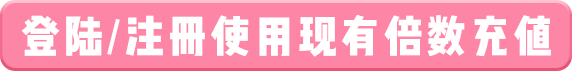
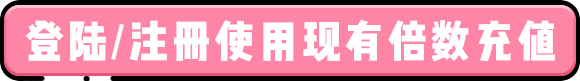
fff

diff --git a/ZL.Web/Content/index.css b/ZL.Web/Content/index.css
@@ -770,8 +770,8 @@ body {
     position: relative;
     display: none;
     margin: 69px auto 0 auto;
-    width: 572px;
-    height: 71px;
+    width: 580px;
+    height: 81px;
     background: url(../../../img/page_l_xybs.png) top center;
     background-size: 100% 100%;
 }

diff --git a/ZL.Web/Controllers/HomeController.cs b/ZL.Web/Controllers/HomeController.cs
@@ -50,7 +50,7 @@ namespace ZL.Web.Controllers
             }
             ////读取分享者Openid
              if ((!string.IsNullOrEmpty(openid) && sign == GetMD5(openid + randomKey)) || !string.IsNullOrEmpty(Session["openid"] + ""))
-            //if (!string.IsNullOrEmpty(openid)|| !string.IsNullOrEmpty(Session["openid"] + ""))
+             //if (!string.IsNullOrEmpty(openid)|| !string.IsNullOrEmpty(Session["openid"] + ""))
             {
                 if (string.IsNullOrEmpty(Session["openid"] + ""))
                 {
@@ -101,8 +101,9 @@ namespace ZL.Web.Controllers
             ResponseInfo res = new ResponseInfo();
             Log logger = new Log();
             logger.Info("登录提交：" + JsonConvert.SerializeObject(userinfo) + "&&" + openid);
-            msg = zlHttp.Post(ConfigurationManager.AppSettings["baseurl"]+"/auth/login", JsonConvert.SerializeObject(userinfo));
-            if (msg.IndexOf("error") > -1)
+            var rts = zlHttp.Posts(ConfigurationManager.AppSettings["baseurl"]+"/auth/login", JsonConvert.SerializeObject(userinfo));
+            msg = rts[0];
+            if (rts[1].IndexOf("200") <=-1)
             {
                 logger.Info("登录失败返回：" + openid + msg+ ConfigurationManager.AppSettings["baseurl"] + "/auth/login");
                 res = JsonConvert.DeserializeObject<ResponseInfo>(msg);
@@ -140,17 +141,18 @@ namespace ZL.Web.Controllers
             ResponseInfo res = new ResponseInfo();
             Log logger = new Log();
             logger.Info("注册提交：" + JsonConvert.SerializeObject(reg) + "&&openid=" + openid + "&&fopenid" + fopenid);
-            msg = zlHttp.Post(ConfigurationManager.AppSettings["baseurl"] + "/auth/register", JsonConvert.SerializeObject(reg));
-            if (msg.IndexOf("error") > -1)
+            var rts = zlHttp.Posts(ConfigurationManager.AppSettings["baseurl"] + "/auth/register", JsonConvert.SerializeObject(reg));
+            msg = rts[0];
+            if (rts[1].IndexOf("200") <= -1)
             {
-                logger.Info("注册返回：" + openid + msg);
+                logger.Info("注册失败返回：" + openid + msg);
                 res = JsonConvert.DeserializeObject<ResponseInfo>(msg);
                 return Json(res.message);
 
             }
             else
             {
-                logger.Info("注册返回：" + openid + msg);
+                logger.Info("注册成功返回：" + openid + msg);
                 var dd = JsonConvert.DeserializeObject<UserInfo>(msg);
                 Bind(openid, dd.storeUserId,1);
                 if (openid != fopenid)

diff --git a/ZL.Infrastructure/Http/ZLHttpRequet.cs b/ZL.Infrastructure/Http/ZLHttpRequet.cs
@@ -41,7 +41,34 @@ namespace ZL.Infrastructure
             }
             return OrderQuantity;
         }
+        public string[] Posts(string url, string postdata)
+        {
+            string[] rts = new string[2];
+            WebRequest request = WebRequest.Create(url);
+            request.Method = "POST";
 
+            //post传参数  
+            byte[] bytes = Encoding.UTF8.GetBytes(postdata);
+            request.ContentType = "application/json;charset=UTF-8";
+            request.ContentLength = postdata.Length;
+            Stream sendStream = request.GetRequestStream();
+            sendStream.Write(bytes, 0, bytes.Length);
+            sendStream.Close();
+            string OrderQuantity = string.Empty;
+            try
+            {
+                var rsp = request.GetResponse() as HttpWebResponse; // 最好能捕获异常302的HttpException,然后再处理一下。在Data中取键值 Location  
+                rts[0] = new StreamReader(rsp.GetResponseStream(), Encoding.GetEncoding("UTF-8")).ReadToEnd();
+                rts[1] = "200";
+            }
+            catch (Exception ex)
+            {
+                var rsp = ((System.Net.WebException)ex).Response as HttpWebResponse;
+                rts[0] = new StreamReader(rsp.GetResponseStream(), Encoding.GetEncoding("UTF-8")).ReadToEnd();
+                rts[1] = ex.Message;
+            }
+            return rts;
+        }
         /// <summary>
         /// Get请求
         /// </summary>
